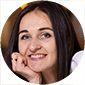
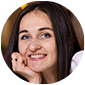
add picture 1x2x3x for modal

diff --git a/src/partials/modal-good-devs.html b/src/partials/modal-good-devs.html
@@ -9,11 +9,41 @@
 
     <!-- DEV1 - Дзумедзей Василь -->
     <div class="good-devs-modal-wrapper good-devs-modal-wrapper--left">
-      <img
-        src="./images/footer/dzumedzei.png"
-        class="good-devs-modal__photo--left"
-        alt="developer"
-      />
+      <picture>
+        <source
+          srcset="
+            ./images/footer/dzumedzei.png    1x,
+            ./images/footer/dzumedzei@2x.png 2x,
+            ./images/footer/dzumedzei@3x.png 3x
+          "
+          type="image/png"
+          media="(min-width: 1280px)"
+        />
+        <source
+          srcset="
+            ./images/footer/dzumedzei.png    1x,
+            ./images/footer/dzumedzei@2x.png 2x,
+            ./images/footer/dzumedzei@3x.png 3x
+          "
+          type="image/png"
+          media="(min-width: 768px)"
+        />
+        <source
+          srcset="
+            ./images/footer/dzumedzei.png    1x,
+            ./images/footer/dzumedzei@2x.png 2x,
+            ./images/footer/dzumedzei@3x.png 3x
+          "
+          type="image/png"
+          media="(min-width: 320px)"
+        />
+        <img
+          src="./images/footer/dzumedzei.png"
+          alt="developer"
+          class="good-devs-modal__photo good-devs-modal__photo--left"
+        />
+      </picture>
+
       <div class="good-devs-modal__thumb--left">
         <div class="good-devs-modal-thumb_first">
           <p class="good-devs-modal__name--left">Дзумедзей Василь</p>
@@ -34,20 +64,79 @@
 
         <p class="good-devs-modal__action--right">Products</p>
       </div>
-      <img
-        src="./images/footer/danilenko.png"
-        class="good-devs-modal__photo--right"
-        alt="developer"
-      />
+      <picture>
+        <source
+          srcset="
+            ./images/footer/danilenko.png    1x,
+            ./images/footer/danilenko@2x.png 2x,
+            ./images/footer/danilenko@3x.png 3x
+          "
+          type="image/png"
+          media="(min-width: 1280px)"
+        />
+        <source
+          srcset="
+            ./images/footer/danilenko.png    1x,
+            ./images/footer/danilenko@2x.png 2x,
+            ./images/footer/danilenko@3x.png 3x
+          "
+          type="image/png"
+          media="(min-width: 768px)"
+        />
+        <source
+          srcset="
+            ./images/footer/danilenko.png    1x,
+            ./images/footer/danilenko@2x.png 2x,
+            ./images/footer/danilenko@3x.png 3x
+          "
+          type="image/png"
+          media="(min-width: 320px)"
+        />
+        <img
+          src="./images/footer/danilenko.png"
+          alt="developer"
+          class="good-devs-modal__photo good-devs-modal__photo--right"
+        />
+      </picture>
     </div>
 
     <!-- DEV3 - Богатчук Микола> -->
     <div class="good-devs-modal-wrapper good-devs-modal-wrapper--left">
-      <img
-        src="./images/footer/bogatchuk.png"
-        class="good-devs-modal__photo--left"
-        alt="developer"
-      />
+      <picture>
+        <source
+          srcset="
+            ./images/footer/bogatchuk.png    1x,
+            ./images/footer/bogatchuk@2x.png 2x,
+            ./images/footer/bogatchuk@3x.png 3x
+          "
+          type="image/png"
+          media="(min-width: 1280px)"
+        />
+        <source
+          srcset="
+            ./images/footer/bogatchuk.png    1x,
+            ./images/footer/bogatchuk@2x.png 2x,
+            ./images/footer/bogatchuk@3x.png 3x
+          "
+          type="image/png"
+          media="(min-width: 768px)"
+        />
+        <source
+          srcset="
+            ./images/footer/bogatchuk.png    1x,
+            ./images/footer/bogatchuk@2x.png 2x,
+            ./images/footer/bogatchuk@3x.png 3x
+          "
+          type="image/png"
+          media="(min-width: 320px)"
+        />
+        <img
+          src="./images/footer/bogatchuk.png"
+          alt="developer"
+          class="good-devs-modal__photo good-devs-modal__photo--left"
+        />
+      </picture>
+
       <div class="good-devs-modal__thumb--left">
         <div class="good-devs-modal-thumb_first">
           <p class="good-devs-modal__name--left">Богатчук Микола</p>
@@ -68,16 +157,78 @@
 
         <p class="good-devs-modal__action--right">About, advantages, gallery</p>
       </div>
-      <img
-        src="./images/footer/kotelnytska.png"
-        class="good-devs-modal__photo--right"
-        alt="developer"
-      />
+      <picture>
+        <source
+          srcset="
+            ./images/footer/kotelnytska.png    1x,
+            ./images/footer/kotelnytska@2x.png 2x,
+            ./images/footer/kotelnytska@3x.png 3x
+          "
+          type="image/png"
+          media="(min-width: 1280px)"
+        />
+        <source
+          srcset="
+            ./images/footer/kotelnytska.png    1x,
+            ./images/footer/kotelnytska@2x.png 2x,
+            ./images/footer/kotelnytska@3x.png 3x
+          "
+          type="image/png"
+          media="(min-width: 768px)"
+        />
+        <source
+          srcset="
+            ./images/footer/kotelnytska.png    1x,
+            ./images/footer/kotelnytska@2x.png 2x,
+            ./images/footer/kotelnytska@3x.png 3x
+          "
+          type="image/png"
+          media="(min-width: 320px)"
+        />
+        <img
+          src="./images/footer/kotelnytska.png"
+          alt="developer"
+          class="good-devs-modal__photo good-devs-modal__photo--right"
+        />
+      </picture>
     </div>
 
     <!-- DEV1 - Носков Анатолій -->
     <div class="good-devs-modal-wrapper good-devs-modal-wrapper--left">
-      <img src="./images/footer/noskov.png" class="good-devs-modal__photo--left" alt="developer" />
+      <picture>
+        <source
+          srcset="
+            ./images/footer/noskov.png    1x,
+            ./images/footer/noskov@2x.png 2x,
+            ./images/footer/noskov@3x.png 3x
+          "
+          type="image/png"
+          media="(min-width: 1280px)"
+        />
+        <source
+          srcset="
+            ./images/footer/bogatchuk.png    1x,
+            ./images/footer/bogatchuk@2x.png 2x,
+            ./images/footer/noskov@3x.png    3x
+          "
+          type="image/png"
+          media="(min-width: 768px)"
+        />
+        <source
+          srcset="
+            ./images/footer/noskov.png    1x,
+            ./images/footer/noskov@2x.png 2x,
+            ./images/footer/noskov@3x.png 3x
+          "
+          type="image/png"
+          media="(min-width: 320px)"
+        />
+        <img
+          src="./images/footer/noskov.png"
+          alt="developer"
+          class="good-devs-modal__photo good-devs-modal__photo--left"
+        />
+      </picture>
       <div class="good-devs-modal__thumb--left">
         <div class="good-devs-modal-thumb_first">
           <p class="good-devs-modal__name--left">Носков Анатолій</p>
@@ -98,11 +249,40 @@
 
         <p class="good-devs-modal__action--right">Footer</p>
       </div>
-      <img
-        src="./images/footer/protsaniuk.png"
-        class="good-devs-modal__photo--right"
-        alt="developer"
-      />
+      <picture>
+        <source
+          srcset="
+            ./images/footer/protsaniuk.png    1x,
+            ./images/footer/protsaniuk@2x.png 2x,
+            ./images/footer/protsaniuk@3x.png 3x
+          "
+          type="image/png"
+          media="(min-width: 1280px)"
+        />
+        <source
+          srcset="
+            ./images/footer/protsaniuk.png    1x,
+            ./images/footer/protsaniuk@2x.png 2x,
+            ./images/footer/protsaniuk@3x.png 3x
+          "
+          type="image/png"
+          media="(min-width: 768px)"
+        />
+        <source
+          srcset="
+            ./images/footer/protsaniuk.png    1x,
+            ./images/footer/protsaniuk@2x.png 2x,
+            ./images/footer/protsaniuk@3x.png 3x
+          "
+          type="image/png"
+          media="(min-width: 320px)"
+        />
+        <img
+          src="./images/footer/protsaniuk.png"
+          alt="developer"
+          class="good-devs-modal__photo good-devs-modal__photo--right"
+        />
+      </picture>
     </div>
   </div>
 </div>
